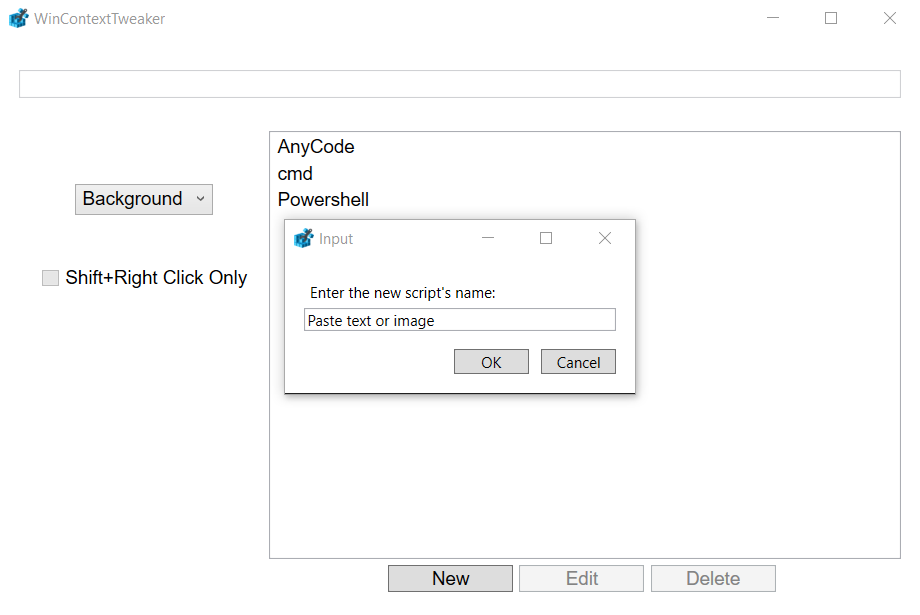
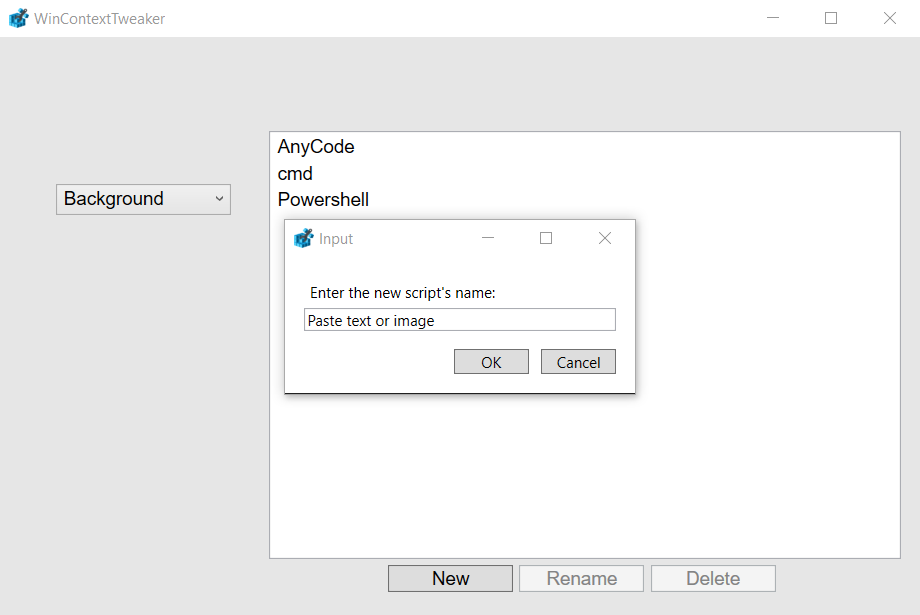
v1.1.0

diff --git a/MainWindow.xaml b/MainWindow.xaml
@@ -6,7 +6,7 @@
         xmlns:local="clr-namespace:WinContextTweaker" mc:Ignorable="d"
         Title="WinContextTweaker"  WindowStartupLocation="CenterScreen"
         Height="500" Width="750" MinHeight="300" MinWidth="600"
-        FontFamily="Arial" FontSize="15">
+        FontFamily="Arial" FontSize="15" Background="#E6E6E6">
 	<Grid Margin="15,0,15,15">
 		<Grid.ColumnDefinitions>
 			<ColumnDefinition Width="200"/>
@@ -21,23 +21,41 @@
 
 
         <TextBox x:Name="txtCommand" Grid.Column="0" Grid.Row="0" Grid.ColumnSpan="2"
-                 Height="22"
+                 Height="22" Visibility="Collapsed"
                  TextChanged="Text_CommandChanged"/>
 
 
-		<ComboBox x:Name="cmbContext" Grid.Column="0" Grid.Row="1"
-                  Height="25" Width="110"
-                  SelectionChanged="Context_SelectionChanged">
-			<ComboBoxItem Content="Background" DataContext="Directory\Background\shell\"/>
-			<ComboBoxItem Content="Folder" DataContext="Directory\shell\"/>
-			<ComboBoxItem Content="File" DataContext="*\shell\"/>
-		</ComboBox>
+		<StackPanel x:Name="stkContext" Grid.Column="0" Grid.Row="1"
+					HorizontalAlignment="Center" VerticalAlignment="Center">
+			<ComboBox x:Name="cmbContext" 
+					  Height="25" Width="140" Margin="5"
+					  SelectionChanged="Context_SelectionChanged">
+				<ComboBoxItem Content="Background" DataContext="Directory\Background\shell\"/>
+				<ComboBoxItem Content="Folders" DataContext="Directory\shell\"/>
+				<ComboBoxItem Content="Any File" DataContext="*\shell\"/>
+				<ComboBoxItem Content="Text Files" DataContext="SystemFileAssociations\text\shell\"/>
+				<ComboBoxItem Content="Document Files" DataContext="SystemFileAssociations\document\shell\"/>
+				<ComboBoxItem Content="Image Files" DataContext="SystemFileAssociations\image\shell\"/>
+				<ComboBoxItem Content="Video Files" DataContext="SystemFileAssociations\video\shell\"/>
+				<ComboBoxItem Content="Audio Files" DataContext="SystemFileAssociations\audio\shell\"/>
+				<ComboBoxItem Content="By Extension" DataContext="SystemFileAssociations\"/>
+			</ComboBox>
+			<Button x:Name="btnSelectExtension" Content="Select Extension" Visibility="Collapsed"
+					Width="125" Margin="5"
+					Click="Button_SelectExtension"/>
+		</StackPanel>
+
 
 
 		<StackPanel x:Name="stkOptions" Grid.Column="0" Grid.Row="2"
-					HorizontalAlignment="Center" VerticalAlignment="Top">
-			<CheckBox x:Name="Extended" Content="Shift+Right Click Only"
-					  Checked="Checkbox_SwitchScriptOption" Unchecked="Checkbox_SwitchScriptOption"/>
+					HorizontalAlignment="Center" VerticalAlignment="Center"
+					Visibility="Collapsed">
+			<CheckBox x:Name="optExtended" Content="Shift Only" DataContext="Extended" Margin="5"
+					  Click="Checkbox_SwitchScriptOption"/>
+			<CheckBox x:Name="optIcon" Content="Icon" DataContext="Icon" Margin="5"
+					  Click="Checkbox_SwitchScriptOption"/>
+			<CheckBox x:Name="optNoWorkingDirectory" Content="No Working Directory" DataContext="NoWorkingDirectory" Margin="5" 
+					  Click="Checkbox_SwitchScriptOption"/>
 		</StackPanel>
 
 
@@ -48,14 +66,13 @@
 
 		<StackPanel x:Name="stkScriptButtons" Grid.Column="2" Grid.Row="3"
 					HorizontalAlignment="Center" VerticalAlignment="Top"
-					Orientation="Horizontal"
-					Margin="0,5,0,0">
+					Orientation="Horizontal" Margin="0,5,0,0">
 			<Button x:Name="btnNewScript" Content="New"
 					Width="100" Margin="0,0,5,0"
 					Click="Button_NewScript"/>
-			<Button x:Name="btnEditScript" Content="Edit"
+			<Button x:Name="btnRenameScript" Content="Rename"
 					Width="100" Margin="0,0,5,0"
-					Click="Button_EditScript"/>
+					Click="Button_RenameScript"/>
 			<Button x:Name="btnDeleteScript" Content="Delete"
 					Width="100" Margin="0,0,5,0"
 					Click="Button_DeleteScript"/>

diff --git a/MainWindow.xaml.cs b/MainWindow.xaml.cs
@@ -66,13 +66,10 @@ namespace WinContextTweaker
 
 			if (script != null)
 			{
-				string[] enabledOptions = script.GetValueNames();
-
-				Extended.IsChecked = enabledOptions.Contains("Extended");
-			}
-			else
-			{
-				Extended.IsChecked = false;
+				foreach (CheckBox checkbox in stkOptions.Children)
+				{
+					checkbox.IsChecked = script.GetValue(checkbox.DataContext as string) != null;
+				}
 			}
 		}
 		private void UpdateScripts()
@@ -87,7 +84,10 @@ namespace WinContextTweaker
 
 				foreach (string name in subKeyNames)
 				{
-					lstScripts.Items.Add(name);
+					if (GetRootScriptCommand(path + name) != null)
+					{
+						lstScripts.Items.Add(name);
+					}
 				}
 			}
 		}
@@ -95,7 +95,7 @@ namespace WinContextTweaker
 		{
 			txtCommand.IsEnabled = allow;
 			stkOptions.IsEnabled = allow;
-			btnEditScript.IsEnabled = allow;
+			btnRenameScript.IsEnabled = allow;
 			btnDeleteScript.IsEnabled = allow;
 		}
 
@@ -118,7 +118,11 @@ namespace WinContextTweaker
 
 		static private string? GetRootScriptCommand(string path)
 		{
-			return OpenRootSubKey(path + "\\command")?.GetValue("") as string;
+			RegistryKey? key = OpenRootSubKey(path + "\\command");
+
+			if (key == null) return null;
+
+			return key.GetValue("") as string ?? "";
 		}
 		static private void SetRootScriptCommand(string path, string command)
 		{
@@ -148,6 +152,22 @@ namespace WinContextTweaker
 				}
 			}
 		}
+		static private void SwitchScriptOption(string path, string option, bool enable)
+		{
+			RegistryKey? script = OpenRootSubKey(path, true);
+
+			if (script != null)
+			{
+				if (enable)
+				{
+					script.SetValue(option, "");
+				}
+				else if (script.GetValue(option) != null)
+				{
+					script.DeleteValue(option);
+				}
+			}
+		}
 
 
 
@@ -156,6 +176,17 @@ namespace WinContextTweaker
 			CanEdit(false);
 
 			path = ((ComboBoxItem)e.AddedItems[0]).DataContext.ToString();
+
+			if (path == "SystemFileAssociations\\")
+			{
+				path = null;
+				btnSelectExtension.Content = "Select Extension";
+				btnSelectExtension.Visibility = Visibility.Visible;
+			}
+			else
+			{
+				btnSelectExtension.Visibility = Visibility.Collapsed;
+			}
 
 			UpdateScripts();
         }
@@ -167,10 +198,14 @@ namespace WinContextTweaker
 			if (selectedScript == null)
 			{
 				CanEdit(false);
-				txtCommand.Text = "";
+				txtCommand.Visibility = Visibility.Collapsed;
+				stkOptions.Visibility = Visibility.Collapsed;
 			}
             else
             {
+				txtCommand.Visibility = Visibility.Visible;
+				stkOptions.Visibility = Visibility.Visible;
+
 				try
 				{
 					UpdateOptions();
@@ -191,19 +226,37 @@ namespace WinContextTweaker
 		{
 			CheckBox element = (CheckBox)sender;
 			bool state = element.IsChecked ?? false;
-			string option = element.Name;
+			string? option = element.DataContext as string;
 
-			RegistryKey? script = OpenRootSubKey(path + selectedScript, true);
-
-			if (script != null)
+			if (option != null)
 			{
-				if (state)
+				SwitchScriptOption(path + selectedScript, option, state);
+
+				if (state == true)
 				{
-					script.SetValue(option, "");
-				}
-				else if (script.GetValue(option) != null)
-				{
-					script.DeleteValue(option);
+					switch (option) //special option scripts
+					{
+						case "Icon":
+							OpenFileDialog openFileDialog = new OpenFileDialog();
+
+							openFileDialog.InitialDirectory = "%userprofile%";
+							openFileDialog.Filter = "Icon Files (*.ico, *.exe)|*.ico;*.exe";
+							openFileDialog.FilterIndex = 0;
+							openFileDialog.RestoreDirectory = true;
+
+							if (openFileDialog.ShowDialog() == true)
+							{
+								string iconPath = openFileDialog.FileName;
+
+								OpenRootSubKey(path + selectedScript, true)?.SetValue(option, iconPath);
+							}
+							else
+							{
+								element.IsChecked = false;
+							}
+
+							break;
+					}
 				}
 			}
 		}
@@ -239,7 +292,7 @@ namespace WinContextTweaker
 			}
 		}
 
-		private void Button_EditScript(object sender, EventArgs e)
+		private void Button_RenameScript(object sender, EventArgs e)
 		{
 			InputDialog inputDialog = new InputDialog("Enter the script's new name:", selectedScript);
 
@@ -248,6 +301,19 @@ namespace WinContextTweaker
 				RenameRootScript(path, selectedScript, inputDialog.Answer);
 				UpdateScripts();
 			}
+		}
+
+		private void Button_SelectExtension(object sender, EventArgs e)
+		{
+			InputDialog inputDialog = new InputDialog("Enter the file extension (WITH A POINT)", ".");
+
+			if (inputDialog.ShowDialog() == true)
+			{
+				path = $"SystemFileAssociations\\{inputDialog.Answer}\\shell\\";
+				btnSelectExtension.Content = inputDialog.Answer;
+			}
+
+			UpdateScripts();
 		}
 	}
 }

diff --git a/README.md b/README.md
@@ -23,3 +23,8 @@ You can download it in the releases tab.
 ## Changelog
 - **v1.0.0**:
 <br>- First release.
+
+- **v1.1.0**:
+<br>- Added "Icon" (with icon selection) and "No Working Directory" options.
+<br>- Added "Text", "Document", "Image", "Video", "Audio" and "by extension" files context menus.
+<br>- Fixed crashes and bugs.
